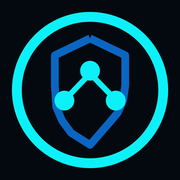
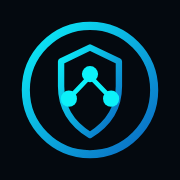
brand: corrige rollout de identidad 2026 y actualiza Contacto
- logo.svg: wordmark convertido a trazos (Manrope 800); elimina el hueco
  que hacía leer "Army Net" y la dependencia de fuentes.
- og:image pasa de SVG (no soportado por Facebook/LinkedIn/WhatsApp) a
  JPG 1200x630; agrega og:url, og:description, canonical y
  summary_large_image.
- Íconos PNG/ICO regenerados desde el SVG oficial (antes no coincidían);
  favicon.svg con trazos reforzados para 16-32 px; restaura .ico y PNG
  como respaldo del favicon SVG.
- manifest: agrega 192x192 y separa el ícono maskable con zona segura.
- schema.org: logo en PNG 512.
- contacto.html: wordmark ArmyNet, íconos y metadatos al día. La access
  key de Web3Forms no se modifica (es pública por diseño).

Claude-Session: https://claude.ai/code/session_01G4K13TpmLnLbJjK5UH8KCf

diff --git a/contacto.html b/contacto.html
@@ -5,22 +5,36 @@
   <meta name="viewport" content="width=device-width,initial-scale=1">
   <meta name="description" content="Contacta a ArmyNet. Formulario directo, WhatsApp o correo. Evaluación gratuita. Respondemos en menos de 24h. Santiago, Chile.">
   <title>Contacto | ArmyNet</title>
+  <link rel="canonical" href="https://armynet.cl/contacto.html">
+  <meta property="og:site_name" content="ArmyNet">
+  <meta property="og:type" content="website">
+  <meta property="og:locale" content="es_CL">
+  <meta property="og:url" content="https://armynet.cl/contacto.html">
+  <meta property="og:title" content="Contacto | ArmyNet">
+  <meta property="og:description" content="Contacta a ArmyNet. Formulario directo, WhatsApp o correo. Evaluación gratuita. Respondemos en menos de 24h. Santiago, Chile.">
+  <meta property="og:image" content="https://armynet.cl/assets/og-armynet.jpg?v=20261104b">
+  <meta property="og:image:type" content="image/jpeg">
+  <meta property="og:image:width" content="1200">
+  <meta property="og:image:height" content="630">
+  <meta property="og:image:alt" content="Logo de ArmyNet">
+  <meta name="twitter:card" content="summary_large_image">
   <link rel="preconnect" href="https://fonts.googleapis.com">
   <link href="https://fonts.googleapis.com/css2?family=Manrope:wght@500;600;700;800&family=DM+Sans:wght@400;500;600;700&display=swap" rel="stylesheet">
   <link rel="stylesheet" href="https://cdnjs.cloudflare.com/ajax/libs/font-awesome/6.5.0/css/all.min.css">
   <link rel="stylesheet" href="styles.css">
-  <link rel="manifest" href="manifest.json">
-  <link rel="icon" type="image/x-icon" href="assets/ico/armynet_favicon.ico">
-  <link rel="icon" type="image/png" sizes="32x32" href="assets/ico/armynet_favicon_32x32.png">
-  <link rel="apple-touch-icon" sizes="180x180" href="assets/ico/armynet_apple_touch_icon.png">
-  <meta name="theme-color" content="#0b172d">
+  <link rel="manifest" href="manifest.json?v=20261104b">
+  <link rel="icon" href="assets/ico/armynet_favicon.ico?v=20261104b" sizes="48x48">
+  <link rel="icon" type="image/svg+xml" href="favicon.svg?v=20261104b">
+  <link rel="icon" type="image/png" sizes="32x32" href="assets/ico/armynet_favicon_32x32.png?v=20261104b">
+  <link rel="apple-touch-icon" sizes="180x180" href="assets/ico/armynet_apple_touch_icon.png?v=20261104b">
+  <meta name="theme-color" content="#04090F">
   <script type="application/ld+json">
   {
     "@context": "https://schema.org",
     "@type": "ProfessionalService",
     "name": "ArmyNet SpA",
-    "image": "https://armynet.cl/assets/ico/armynet_pwa_512x512.png",
-    "logo": "https://armynet.cl/assets/ico/armynet_pwa_512x512.png",
+    "image": "https://armynet.cl/assets/og-armynet.jpg?v=20261104b",
+    "logo": "https://armynet.cl/assets/ico/armynet_pwa_512x512.png?v=20261104b",
     "url": "https://armynet.cl/",
     "telephone": "+56985111137",
     "email": "contacto@armynet.cl",
@@ -60,8 +74,8 @@
 <nav id="navbar">
   <div class="container nav-inner">
     <a href="index.html" class="nav-logo">
-      <img id="logoImg" src="armynet_icono.svg" alt="ArmyNet" style="height:48px;width:auto;">
-      <span>ARMY<span class="accent">NET</span></span>
+      <img id="logoImg" src="armynet_icono.svg?v=20261104b" alt="ArmyNet" style="height:48px;width:auto;">
+      <span>Army<span class="accent">Net</span></span>
     </a>
     <div class="nav-links" id="nav-links">
       <a href="index.html">Inicio</a>
@@ -204,7 +218,7 @@
   <div class="container">
     <div class="footer-inner">
       <div>
-        <div class="footer-logo"><img src="armynet_icono.svg" alt="ArmyNet" style="height:40px;width:auto;"><span>ARMY<span class="accent">NET</span></span></div>
+        <div class="footer-logo"><img src="armynet_icono.svg?v=20261104b" alt="ArmyNet" style="height:40px;width:auto;"><span>Army<span class="accent">Net</span></span></div>
         <p class="footer-desc">Soluciones TI integrales para empresas y PYMES. Tecnología que trabaja para ti.</p>
       </div>
       <div class="footer-col">

diff --git a/servicios.html b/servicios.html
@@ -5,26 +5,36 @@
   <meta name="viewport" content="width=device-width,initial-scale=1">
   <meta name="description" content="Servicios TI de ArmyNet: Mantención, Redes, Ciberseguridad, CCTV, Armado PC, Audiovisual y Diseño Web en Santiago, Chile.">
   <title>Servicios | ArmyNet</title>
+  <link rel="canonical" href="https://armynet.cl/servicios.html">
   <meta property="og:site_name" content="ArmyNet">
-  <meta property="og:title" content="Servicios | ArmyNet">
   <meta property="og:type" content="website">
-  <meta property="og:image" content="https://armynet.cl/logo.svg?v=20261104">
-  <meta name="twitter:card" content="summary">
+  <meta property="og:locale" content="es_CL">
+  <meta property="og:url" content="https://armynet.cl/servicios.html">
+  <meta property="og:title" content="Servicios | ArmyNet">
+  <meta property="og:description" content="Servicios TI de ArmyNet: Mantención, Redes, Ciberseguridad, CCTV, Armado PC, Audiovisual y Diseño Web en Santiago, Chile.">
+  <meta property="og:image" content="https://armynet.cl/assets/og-armynet.jpg?v=20261104b">
+  <meta property="og:image:type" content="image/jpeg">
+  <meta property="og:image:width" content="1200">
+  <meta property="og:image:height" content="630">
+  <meta property="og:image:alt" content="Logo de ArmyNet">
+  <meta name="twitter:card" content="summary_large_image">
   <link rel="preconnect" href="https://fonts.googleapis.com">
   <link href="https://fonts.googleapis.com/css2?family=Manrope:wght@500;600;700;800&family=DM+Sans:wght@400;500;600;700&display=swap" rel="stylesheet">
   <link rel="stylesheet" href="https://cdnjs.cloudflare.com/ajax/libs/font-awesome/6.5.0/css/all.min.css">
   <link rel="stylesheet" href="styles.css">
-  <link rel="manifest" href="manifest.json?v=20261104">
-  <link rel="icon" type="image/svg+xml" href="favicon.svg">
-  <link rel="apple-touch-icon" sizes="180x180" href="assets/ico/armynet_apple_touch_icon.png?v=20261104">
+  <link rel="manifest" href="manifest.json?v=20261104b">
+  <link rel="icon" href="assets/ico/armynet_favicon.ico?v=20261104b" sizes="48x48">
+  <link rel="icon" type="image/svg+xml" href="favicon.svg?v=20261104b">
+  <link rel="icon" type="image/png" sizes="32x32" href="assets/ico/armynet_favicon_32x32.png?v=20261104b">
+  <link rel="apple-touch-icon" sizes="180x180" href="assets/ico/armynet_apple_touch_icon.png?v=20261104b">
   <meta name="theme-color" content="#04090F">
   <script type="application/ld+json">
   {
     "@context": "https://schema.org",
     "@type": "ProfessionalService",
     "name": "ArmyNet SpA",
-    "image": "https://armynet.cl/logo.svg?v=20261104",
-    "logo": "https://armynet.cl/logo.svg?v=20261104",
+    "image": "https://armynet.cl/assets/og-armynet.jpg?v=20261104b",
+    "logo": "https://armynet.cl/assets/ico/armynet_pwa_512x512.png?v=20261104b",
     "url": "https://armynet.cl/",
     "telephone": "+56985111137",
     "email": "contacto@armynet.cl",
@@ -64,7 +74,7 @@
 <nav id="navbar">
   <div class="container nav-inner">
     <a href="index.html" class="nav-logo">
-      <img id="logoImg" src="armynet_icono.svg?v=20261104" alt="ArmyNet" style="height:48px;width:auto;">
+      <img id="logoImg" src="armynet_icono.svg?v=20261104b" alt="ArmyNet" style="height:48px;width:auto;">
       <span>Army<span class="accent">Net</span></span>
     </a>
     <div class="nav-links" id="nav-links">
@@ -285,7 +295,7 @@
   <div class="container">
     <div class="footer-inner">
       <div>
-        <div class="footer-logo"><img src="armynet_icono.svg?v=20261104" alt="ArmyNet" style="height:40px;width:auto;"><span>Army<span class="accent">Net</span></span></div>
+        <div class="footer-logo"><img src="armynet_icono.svg?v=20261104b" alt="ArmyNet" style="height:40px;width:auto;"><span>Army<span class="accent">Net</span></span></div>
         <p class="footer-desc">Soluciones TI integrales para empresas y PYMES. Tecnología que trabaja para ti.</p>
       </div>
       <div class="footer-col">

diff --git a/blog.html b/blog.html
@@ -5,26 +5,36 @@
   <meta name="viewport" content="width=device-width,initial-scale=1">
   <meta name="description" content="Blog de ArmyNet: consejos prácticos de redes, ciberseguridad, mantención TI y tecnología para empresas y PYMEs en Chile.">
   <title>Blog | ArmyNet</title>
+  <link rel="canonical" href="https://armynet.cl/blog.html">
   <meta property="og:site_name" content="ArmyNet">
-  <meta property="og:title" content="Blog | ArmyNet">
   <meta property="og:type" content="website">
-  <meta property="og:image" content="https://armynet.cl/logo.svg?v=20261104">
-  <meta name="twitter:card" content="summary">
+  <meta property="og:locale" content="es_CL">
+  <meta property="og:url" content="https://armynet.cl/blog.html">
+  <meta property="og:title" content="Blog | ArmyNet">
+  <meta property="og:description" content="Blog de ArmyNet: consejos prácticos de redes, ciberseguridad, mantención TI y tecnología para empresas y PYMEs en Chile.">
+  <meta property="og:image" content="https://armynet.cl/assets/og-armynet.jpg?v=20261104b">
+  <meta property="og:image:type" content="image/jpeg">
+  <meta property="og:image:width" content="1200">
+  <meta property="og:image:height" content="630">
+  <meta property="og:image:alt" content="Logo de ArmyNet">
+  <meta name="twitter:card" content="summary_large_image">
   <link rel="preconnect" href="https://fonts.googleapis.com">
   <link href="https://fonts.googleapis.com/css2?family=Manrope:wght@500;600;700;800&family=DM+Sans:wght@400;500;600;700&display=swap" rel="stylesheet">
   <link rel="stylesheet" href="https://cdnjs.cloudflare.com/ajax/libs/font-awesome/6.5.0/css/all.min.css">
   <link rel="stylesheet" href="styles.css">
-  <link rel="manifest" href="manifest.json?v=20261104">
-  <link rel="icon" type="image/svg+xml" href="favicon.svg">
-  <link rel="apple-touch-icon" sizes="180x180" href="assets/ico/armynet_apple_touch_icon.png?v=20261104">
+  <link rel="manifest" href="manifest.json?v=20261104b">
+  <link rel="icon" href="assets/ico/armynet_favicon.ico?v=20261104b" sizes="48x48">
+  <link rel="icon" type="image/svg+xml" href="favicon.svg?v=20261104b">
+  <link rel="icon" type="image/png" sizes="32x32" href="assets/ico/armynet_favicon_32x32.png?v=20261104b">
+  <link rel="apple-touch-icon" sizes="180x180" href="assets/ico/armynet_apple_touch_icon.png?v=20261104b">
   <meta name="theme-color" content="#04090F">
   <script type="application/ld+json">
   {
     "@context": "https://schema.org",
     "@type": "ProfessionalService",
     "name": "ArmyNet SpA",
-    "image": "https://armynet.cl/logo.svg?v=20261104",
-    "logo": "https://armynet.cl/logo.svg?v=20261104",
+    "image": "https://armynet.cl/assets/og-armynet.jpg?v=20261104b",
+    "logo": "https://armynet.cl/assets/ico/armynet_pwa_512x512.png?v=20261104b",
     "url": "https://armynet.cl/",
     "telephone": "+56985111137",
     "email": "contacto@armynet.cl",
@@ -64,7 +74,7 @@
 <nav id="navbar">
   <div class="container nav-inner">
     <a href="index.html" class="nav-logo">
-      <img id="logoImg" src="armynet_icono.svg?v=20261104" alt="ArmyNet" style="height:48px;width:auto;">
+      <img id="logoImg" src="armynet_icono.svg?v=20261104b" alt="ArmyNet" style="height:48px;width:auto;">
       <span>Army<span class="accent">Net</span></span>
     </a>
     <div class="nav-links" id="nav-links">
@@ -110,7 +120,7 @@
   <div class="container">
     <div class="footer-inner">
       <div>
-        <div class="footer-logo"><img src="armynet_icono.svg?v=20261104" alt="ArmyNet" style="height:40px;width:auto;"><span>Army<span class="accent">Net</span></span></div>
+        <div class="footer-logo"><img src="armynet_icono.svg?v=20261104b" alt="ArmyNet" style="height:40px;width:auto;"><span>Army<span class="accent">Net</span></span></div>
         <p class="footer-desc">Soluciones TI integrales para empresas y PYMES. Tecnología que trabaja para ti.</p>
       </div>
       <div class="footer-col">

diff --git a/index.html b/index.html
@@ -5,26 +5,36 @@
   <meta name="viewport" content="width=device-width,initial-scale=1">
   <meta name="description" content="ArmyNet — Soluciones TI, Ciberseguridad, Redes, CCTV y más. +10 años de experiencia en Santiago, Chile. Tecnología que trabaja para ti.">
   <title>ArmyNet | Tecnología que trabaja para ti</title>
+  <link rel="canonical" href="https://armynet.cl/">
   <meta property="og:site_name" content="ArmyNet">
-  <meta property="og:title" content="ArmyNet | Tecnología que trabaja para ti">
   <meta property="og:type" content="website">
-  <meta property="og:image" content="https://armynet.cl/logo.svg?v=20261104">
-  <meta name="twitter:card" content="summary">
+  <meta property="og:locale" content="es_CL">
+  <meta property="og:url" content="https://armynet.cl/">
+  <meta property="og:title" content="ArmyNet | Tecnología que trabaja para ti">
+  <meta property="og:description" content="ArmyNet — Soluciones TI, Ciberseguridad, Redes, CCTV y más. +10 años de experiencia en Santiago, Chile. Tecnología que trabaja para ti.">
+  <meta property="og:image" content="https://armynet.cl/assets/og-armynet.jpg?v=20261104b">
+  <meta property="og:image:type" content="image/jpeg">
+  <meta property="og:image:width" content="1200">
+  <meta property="og:image:height" content="630">
+  <meta property="og:image:alt" content="Logo de ArmyNet">
+  <meta name="twitter:card" content="summary_large_image">
   <link rel="preconnect" href="https://fonts.googleapis.com">
   <link href="https://fonts.googleapis.com/css2?family=Manrope:wght@500;600;700;800&family=DM+Sans:wght@400;500;600;700&display=swap" rel="stylesheet">
   <link rel="stylesheet" href="https://cdnjs.cloudflare.com/ajax/libs/font-awesome/6.5.0/css/all.min.css">
   <link rel="stylesheet" href="styles.css">
-  <link rel="manifest" href="manifest.json?v=20261104">
-  <link rel="icon" type="image/svg+xml" href="favicon.svg">
-  <link rel="apple-touch-icon" sizes="180x180" href="assets/ico/armynet_apple_touch_icon.png?v=20261104">
+  <link rel="manifest" href="manifest.json?v=20261104b">
+  <link rel="icon" href="assets/ico/armynet_favicon.ico?v=20261104b" sizes="48x48">
+  <link rel="icon" type="image/svg+xml" href="favicon.svg?v=20261104b">
+  <link rel="icon" type="image/png" sizes="32x32" href="assets/ico/armynet_favicon_32x32.png?v=20261104b">
+  <link rel="apple-touch-icon" sizes="180x180" href="assets/ico/armynet_apple_touch_icon.png?v=20261104b">
   <meta name="theme-color" content="#04090F">
   <script type="application/ld+json">
   {
     "@context": "https://schema.org",
     "@type": "ProfessionalService",
     "name": "ArmyNet SpA",
-    "image": "https://armynet.cl/logo.svg?v=20261104",
-    "logo": "https://armynet.cl/logo.svg?v=20261104",
+    "image": "https://armynet.cl/assets/og-armynet.jpg?v=20261104b",
+    "logo": "https://armynet.cl/assets/ico/armynet_pwa_512x512.png?v=20261104b",
     "url": "https://armynet.cl/",
     "telephone": "+56985111137",
     "email": "contacto@armynet.cl",
@@ -65,7 +75,7 @@
 <nav id="navbar">
   <div class="container nav-inner">
     <a href="index.html" class="nav-logo">
-      <img id="logoImg" src="armynet_icono.svg?v=20261104" alt="ArmyNet" style="height:48px;width:auto;">
+      <img id="logoImg" src="armynet_icono.svg?v=20261104b" alt="ArmyNet" style="height:48px;width:auto;">
       <span>Army<span class="accent">Net</span></span>
     </a>
     <div class="nav-links" id="nav-links">
@@ -305,7 +315,7 @@
     <div class="footer-inner">
       <div>
         <div class="footer-logo">
-          <img src="armynet_icono.svg?v=20261104" alt="ArmyNet" style="height:40px;width:auto;">
+          <img src="armynet_icono.svg?v=20261104b" alt="ArmyNet" style="height:40px;width:auto;">
           <span>Army<span class="accent">Net</span></span>
         </div>
         <p class="footer-desc">Soluciones TI integrales para empresas y PYMES. Tecnología que trabaja para ti.</p>

diff --git a/proyectos.html b/proyectos.html
@@ -5,26 +5,36 @@
   <meta name="viewport" content="width=device-width,initial-scale=1">
   <meta name="description" content="Casos de éxito de ArmyNet: proyectos de redes, ciberseguridad, CCTV y más en Santiago, Chile.">
   <title>Proyectos | ArmyNet</title>
+  <link rel="canonical" href="https://armynet.cl/proyectos.html">
   <meta property="og:site_name" content="ArmyNet">
-  <meta property="og:title" content="Proyectos | ArmyNet">
   <meta property="og:type" content="website">
-  <meta property="og:image" content="https://armynet.cl/logo.svg?v=20261104">
-  <meta name="twitter:card" content="summary">
+  <meta property="og:locale" content="es_CL">
+  <meta property="og:url" content="https://armynet.cl/proyectos.html">
+  <meta property="og:title" content="Proyectos | ArmyNet">
+  <meta property="og:description" content="Casos de éxito de ArmyNet: proyectos de redes, ciberseguridad, CCTV y más en Santiago, Chile.">
+  <meta property="og:image" content="https://armynet.cl/assets/og-armynet.jpg?v=20261104b">
+  <meta property="og:image:type" content="image/jpeg">
+  <meta property="og:image:width" content="1200">
+  <meta property="og:image:height" content="630">
+  <meta property="og:image:alt" content="Logo de ArmyNet">
+  <meta name="twitter:card" content="summary_large_image">
   <link rel="preconnect" href="https://fonts.googleapis.com">
   <link href="https://fonts.googleapis.com/css2?family=Manrope:wght@500;600;700;800&family=DM+Sans:wght@400;500;600;700&display=swap" rel="stylesheet">
   <link rel="stylesheet" href="https://cdnjs.cloudflare.com/ajax/libs/font-awesome/6.5.0/css/all.min.css">
   <link rel="stylesheet" href="styles.css">
-  <link rel="manifest" href="manifest.json?v=20261104">
-  <link rel="icon" type="image/svg+xml" href="favicon.svg">
-  <link rel="apple-touch-icon" sizes="180x180" href="assets/ico/armynet_apple_touch_icon.png?v=20261104">
+  <link rel="manifest" href="manifest.json?v=20261104b">
+  <link rel="icon" href="assets/ico/armynet_favicon.ico?v=20261104b" sizes="48x48">
+  <link rel="icon" type="image/svg+xml" href="favicon.svg?v=20261104b">
+  <link rel="icon" type="image/png" sizes="32x32" href="assets/ico/armynet_favicon_32x32.png?v=20261104b">
+  <link rel="apple-touch-icon" sizes="180x180" href="assets/ico/armynet_apple_touch_icon.png?v=20261104b">
   <meta name="theme-color" content="#04090F">
   <script type="application/ld+json">
   {
     "@context": "https://schema.org",
     "@type": "ProfessionalService",
     "name": "ArmyNet SpA",
-    "image": "https://armynet.cl/logo.svg?v=20261104",
-    "logo": "https://armynet.cl/logo.svg?v=20261104",
+    "image": "https://armynet.cl/assets/og-armynet.jpg?v=20261104b",
+    "logo": "https://armynet.cl/assets/ico/armynet_pwa_512x512.png?v=20261104b",
     "url": "https://armynet.cl/",
     "telephone": "+56985111137",
     "email": "contacto@armynet.cl",
@@ -64,7 +74,7 @@
 <nav id="navbar">
   <div class="container nav-inner">
     <a href="index.html" class="nav-logo">
-      <img id="logoImg" src="armynet_icono.svg?v=20261104" alt="ArmyNet" style="height:48px;width:auto;">
+      <img id="logoImg" src="armynet_icono.svg?v=20261104b" alt="ArmyNet" style="height:48px;width:auto;">
       <span>Army<span class="accent">Net</span></span>
     </a>
     <div class="nav-links" id="nav-links">
@@ -325,7 +335,7 @@
   <div class="container">
     <div class="footer-inner">
       <div>
-        <div class="footer-logo"><img src="armynet_icono.svg?v=20261104" alt="ArmyNet" style="height:40px;width:auto;"><span>Army<span class="accent">Net</span></span></div>
+        <div class="footer-logo"><img src="armynet_icono.svg?v=20261104b" alt="ArmyNet" style="height:40px;width:auto;"><span>Army<span class="accent">Net</span></span></div>
         <p class="footer-desc">Soluciones TI integrales para empresas y PYMES. Tecnología que trabaja para ti.</p>
       </div>
       <div class="footer-col">

diff --git a/politica-de-privacidad.html b/politica-de-privacidad.html
@@ -5,18 +5,28 @@
   <meta name="viewport" content="width=device-width,initial-scale=1">
   <meta name="description" content="Política de Privacidad y Protección de Datos Personales de ArmyNet SpA. Ley N° 19.628 y Ley N° 21.719.">
   <title>Política de Privacidad | ArmyNet</title>
+  <link rel="canonical" href="https://armynet.cl/politica-de-privacidad.html">
   <meta property="og:site_name" content="ArmyNet">
-  <meta property="og:title" content="Política de Privacidad | ArmyNet">
   <meta property="og:type" content="website">
-  <meta property="og:image" content="https://armynet.cl/logo.svg?v=20261104">
-  <meta name="twitter:card" content="summary">
+  <meta property="og:locale" content="es_CL">
+  <meta property="og:url" content="https://armynet.cl/politica-de-privacidad.html">
+  <meta property="og:title" content="Política de Privacidad | ArmyNet">
+  <meta property="og:description" content="Política de Privacidad y Protección de Datos Personales de ArmyNet SpA. Ley N° 19.628 y Ley N° 21.719.">
+  <meta property="og:image" content="https://armynet.cl/assets/og-armynet.jpg?v=20261104b">
+  <meta property="og:image:type" content="image/jpeg">
+  <meta property="og:image:width" content="1200">
+  <meta property="og:image:height" content="630">
+  <meta property="og:image:alt" content="Logo de ArmyNet">
+  <meta name="twitter:card" content="summary_large_image">
   <link rel="preconnect" href="https://fonts.googleapis.com">
   <link href="https://fonts.googleapis.com/css2?family=Manrope:wght@500;600;700;800&family=DM+Sans:wght@400;500;600;700&display=swap" rel="stylesheet">
   <link rel="stylesheet" href="https://cdnjs.cloudflare.com/ajax/libs/font-awesome/6.5.0/css/all.min.css">
   <link rel="stylesheet" href="styles.css">
-  <link rel="manifest" href="manifest.json?v=20261104">
-  <link rel="icon" type="image/svg+xml" href="favicon.svg">
-  <link rel="apple-touch-icon" sizes="180x180" href="assets/ico/armynet_apple_touch_icon.png?v=20261104">
+  <link rel="manifest" href="manifest.json?v=20261104b">
+  <link rel="icon" href="assets/ico/armynet_favicon.ico?v=20261104b" sizes="48x48">
+  <link rel="icon" type="image/svg+xml" href="favicon.svg?v=20261104b">
+  <link rel="icon" type="image/png" sizes="32x32" href="assets/ico/armynet_favicon_32x32.png?v=20261104b">
+  <link rel="apple-touch-icon" sizes="180x180" href="assets/ico/armynet_apple_touch_icon.png?v=20261104b">
   <meta name="theme-color" content="#04090F">
   <meta name="robots" content="index, follow">
   <style>
@@ -68,7 +78,7 @@
 <nav id="navbar">
   <div class="container nav-inner">
     <a href="index.html" class="nav-logo">
-      <img id="logoImg" src="armynet_icono.svg?v=20261104" alt="ArmyNet" style="height:48px;width:auto;">
+      <img id="logoImg" src="armynet_icono.svg?v=20261104b" alt="ArmyNet" style="height:48px;width:auto;">
       <span>Army<span class="accent">Net</span></span>
     </a>
     <div class="nav-links" id="nav-links">
@@ -198,7 +208,7 @@
   <div class="container">
     <div class="footer-inner">
       <div>
-        <div class="footer-logo"><img src="armynet_icono.svg?v=20261104" alt="ArmyNet" style="height:40px;width:auto;"><span>Army<span class="accent">Net</span></span></div>
+        <div class="footer-logo"><img src="armynet_icono.svg?v=20261104b" alt="ArmyNet" style="height:40px;width:auto;"><span>Army<span class="accent">Net</span></span></div>
         <p class="footer-desc">Soluciones TI integrales para empresas y PYMES. Tecnología que trabaja para ti.</p>
       </div>
       <div class="footer-col">
